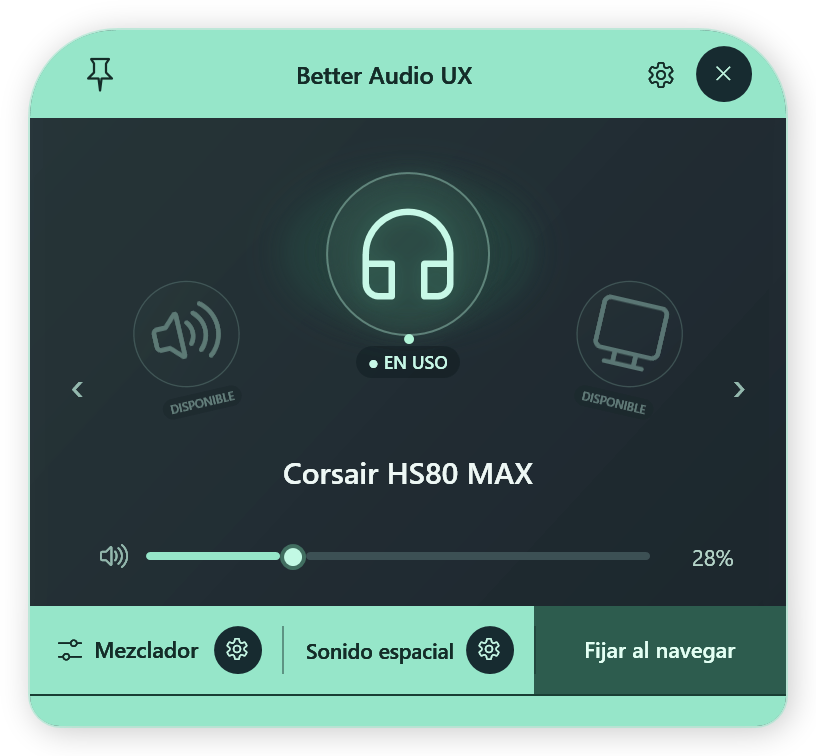
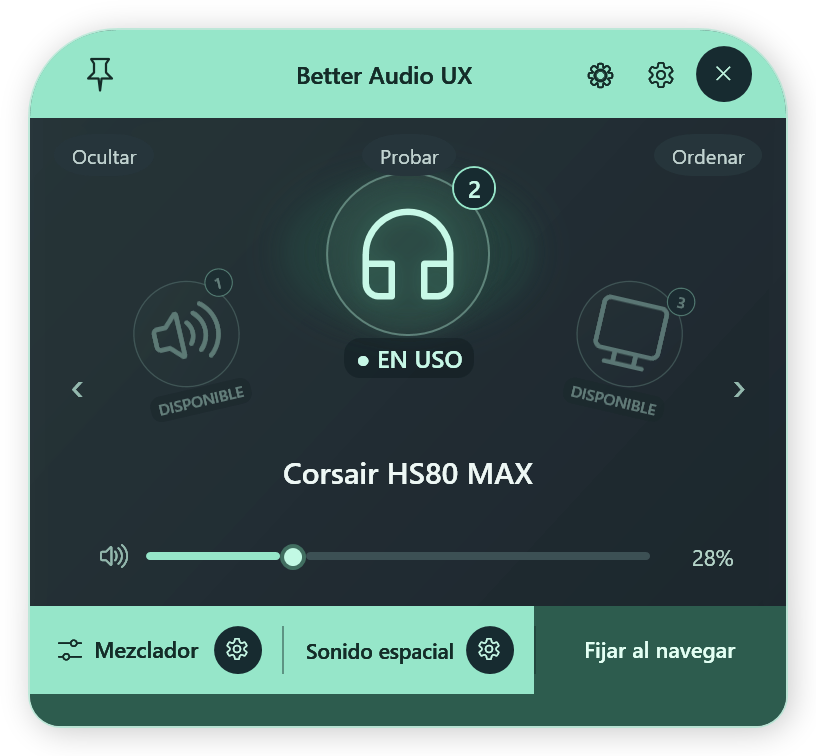
Refresh documentation screenshots and include internal settings

diff --git a/AudioFlyoutApp.Tests/Program.cs b/AudioFlyoutApp.Tests/Program.cs
@@ -330,7 +330,14 @@ internal static class Program
             new("b", "Audífono (CORSAIR HS80 MAX WIRELESS Gaming Headset)", "Auriculares", "\uE7F6", 28, false, true),
             new("c", "Monitor (DisplayPort)", "Pantalla", "\uE7F4", 60, false, false)
         ], Sessions = [new("b", "browser", "Google Chrome", 74, false, true), new("b", "music", "Música", 42, false, true), new("b", "system", "Sonidos del sistema", 25, true, false)] };
-        using var vm = new FlyoutViewModel(audio, dispatcher, new MemoryPreferences(true));
+        using var vm = new FlyoutViewModel(audio, dispatcher, new MemoryPreferences(true)
+        {
+            HiddenDevices = new Dictionary<string, string>
+            {
+                ["demo-hdmi"] = "Monitor (HDMI)",
+                ["demo-streaming"] = "Altavoces (Steam Streaming Speakers)"
+            }
+        }, new MemoryStartup());
         await vm.RefreshAsync();
         var window = new FlyoutWindow(vm);
         try

diff --git a/README.md b/README.md
@@ -8,9 +8,9 @@ Built with **C#, WPF, and .NET 10 LTS**. Current application release: **1.2.9**.
 
 ## Screenshots
 
-| Output selector | Integrated mixer |
-| --- | --- |
-| ![Arc-shaped output selector](docs/images/hud.png) | ![Master and per-application volume](docs/images/mixer.png) |
+| Output selector | Integrated mixer | Internal settings |
+| --- | --- | --- |
+| ![Output selector with device order and test button](docs/images/hud.png) | ![Master and per-application volume](docs/images/mixer.png) | ![Startup preference and hidden output restoration](docs/images/settings.png) |
 
 Screenshots use demonstration data.
 
